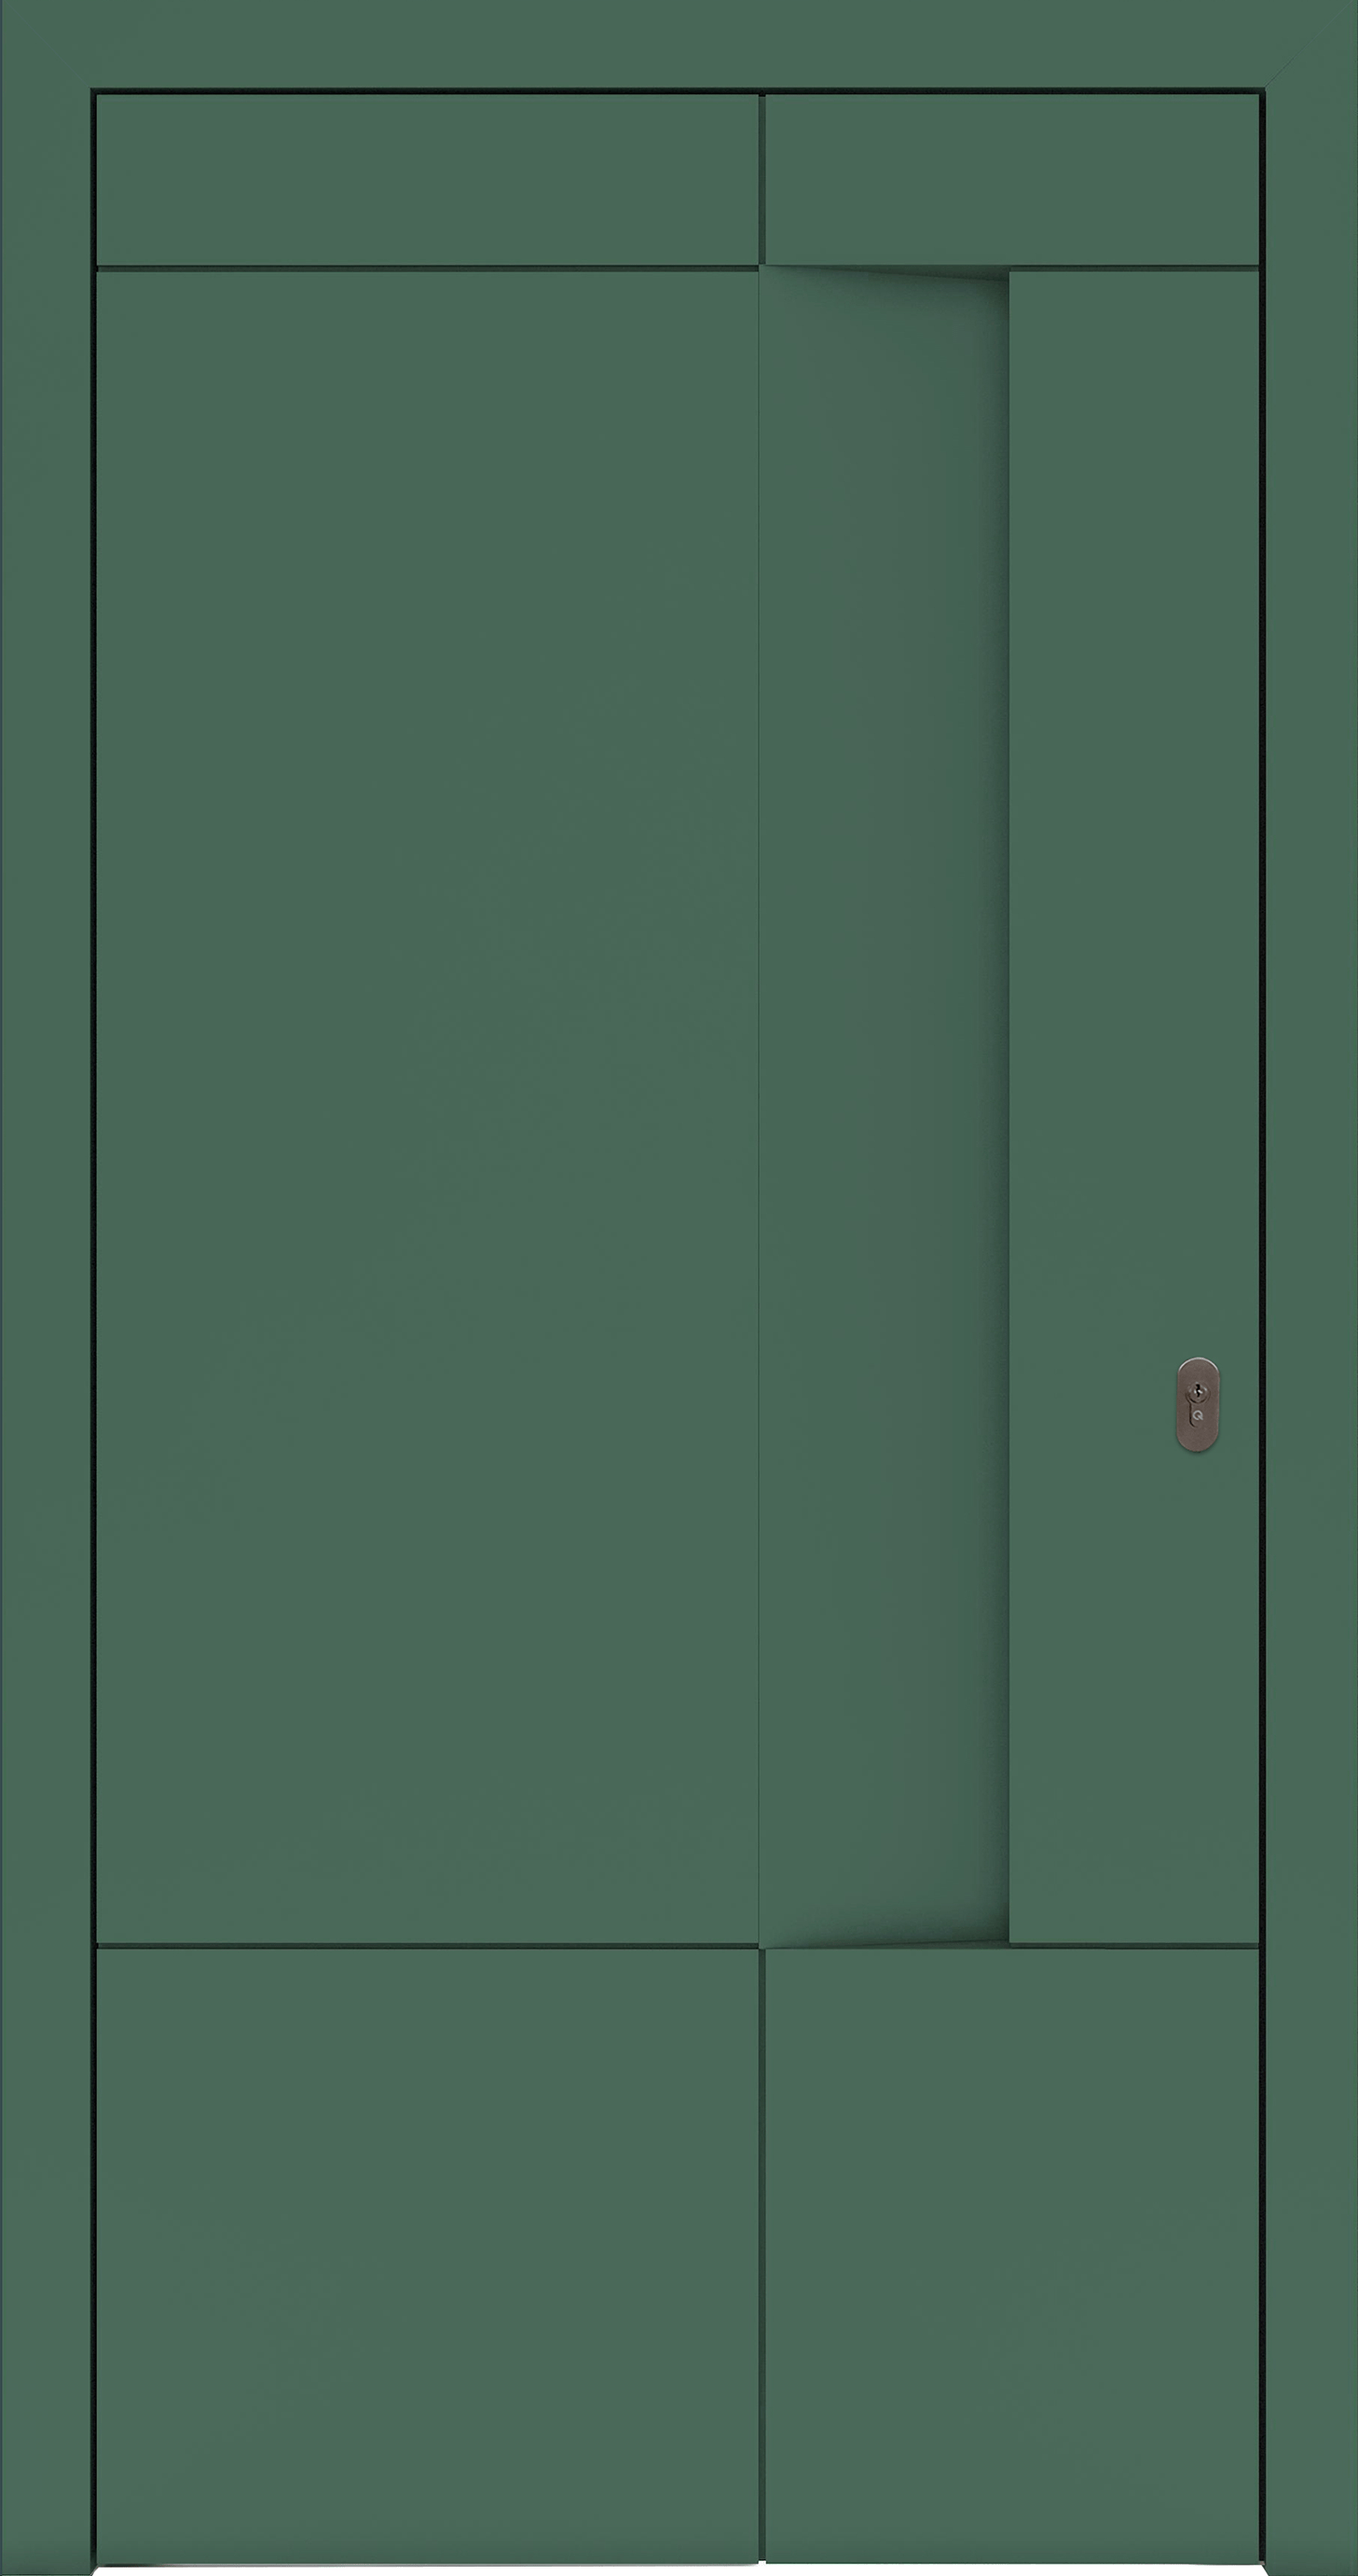
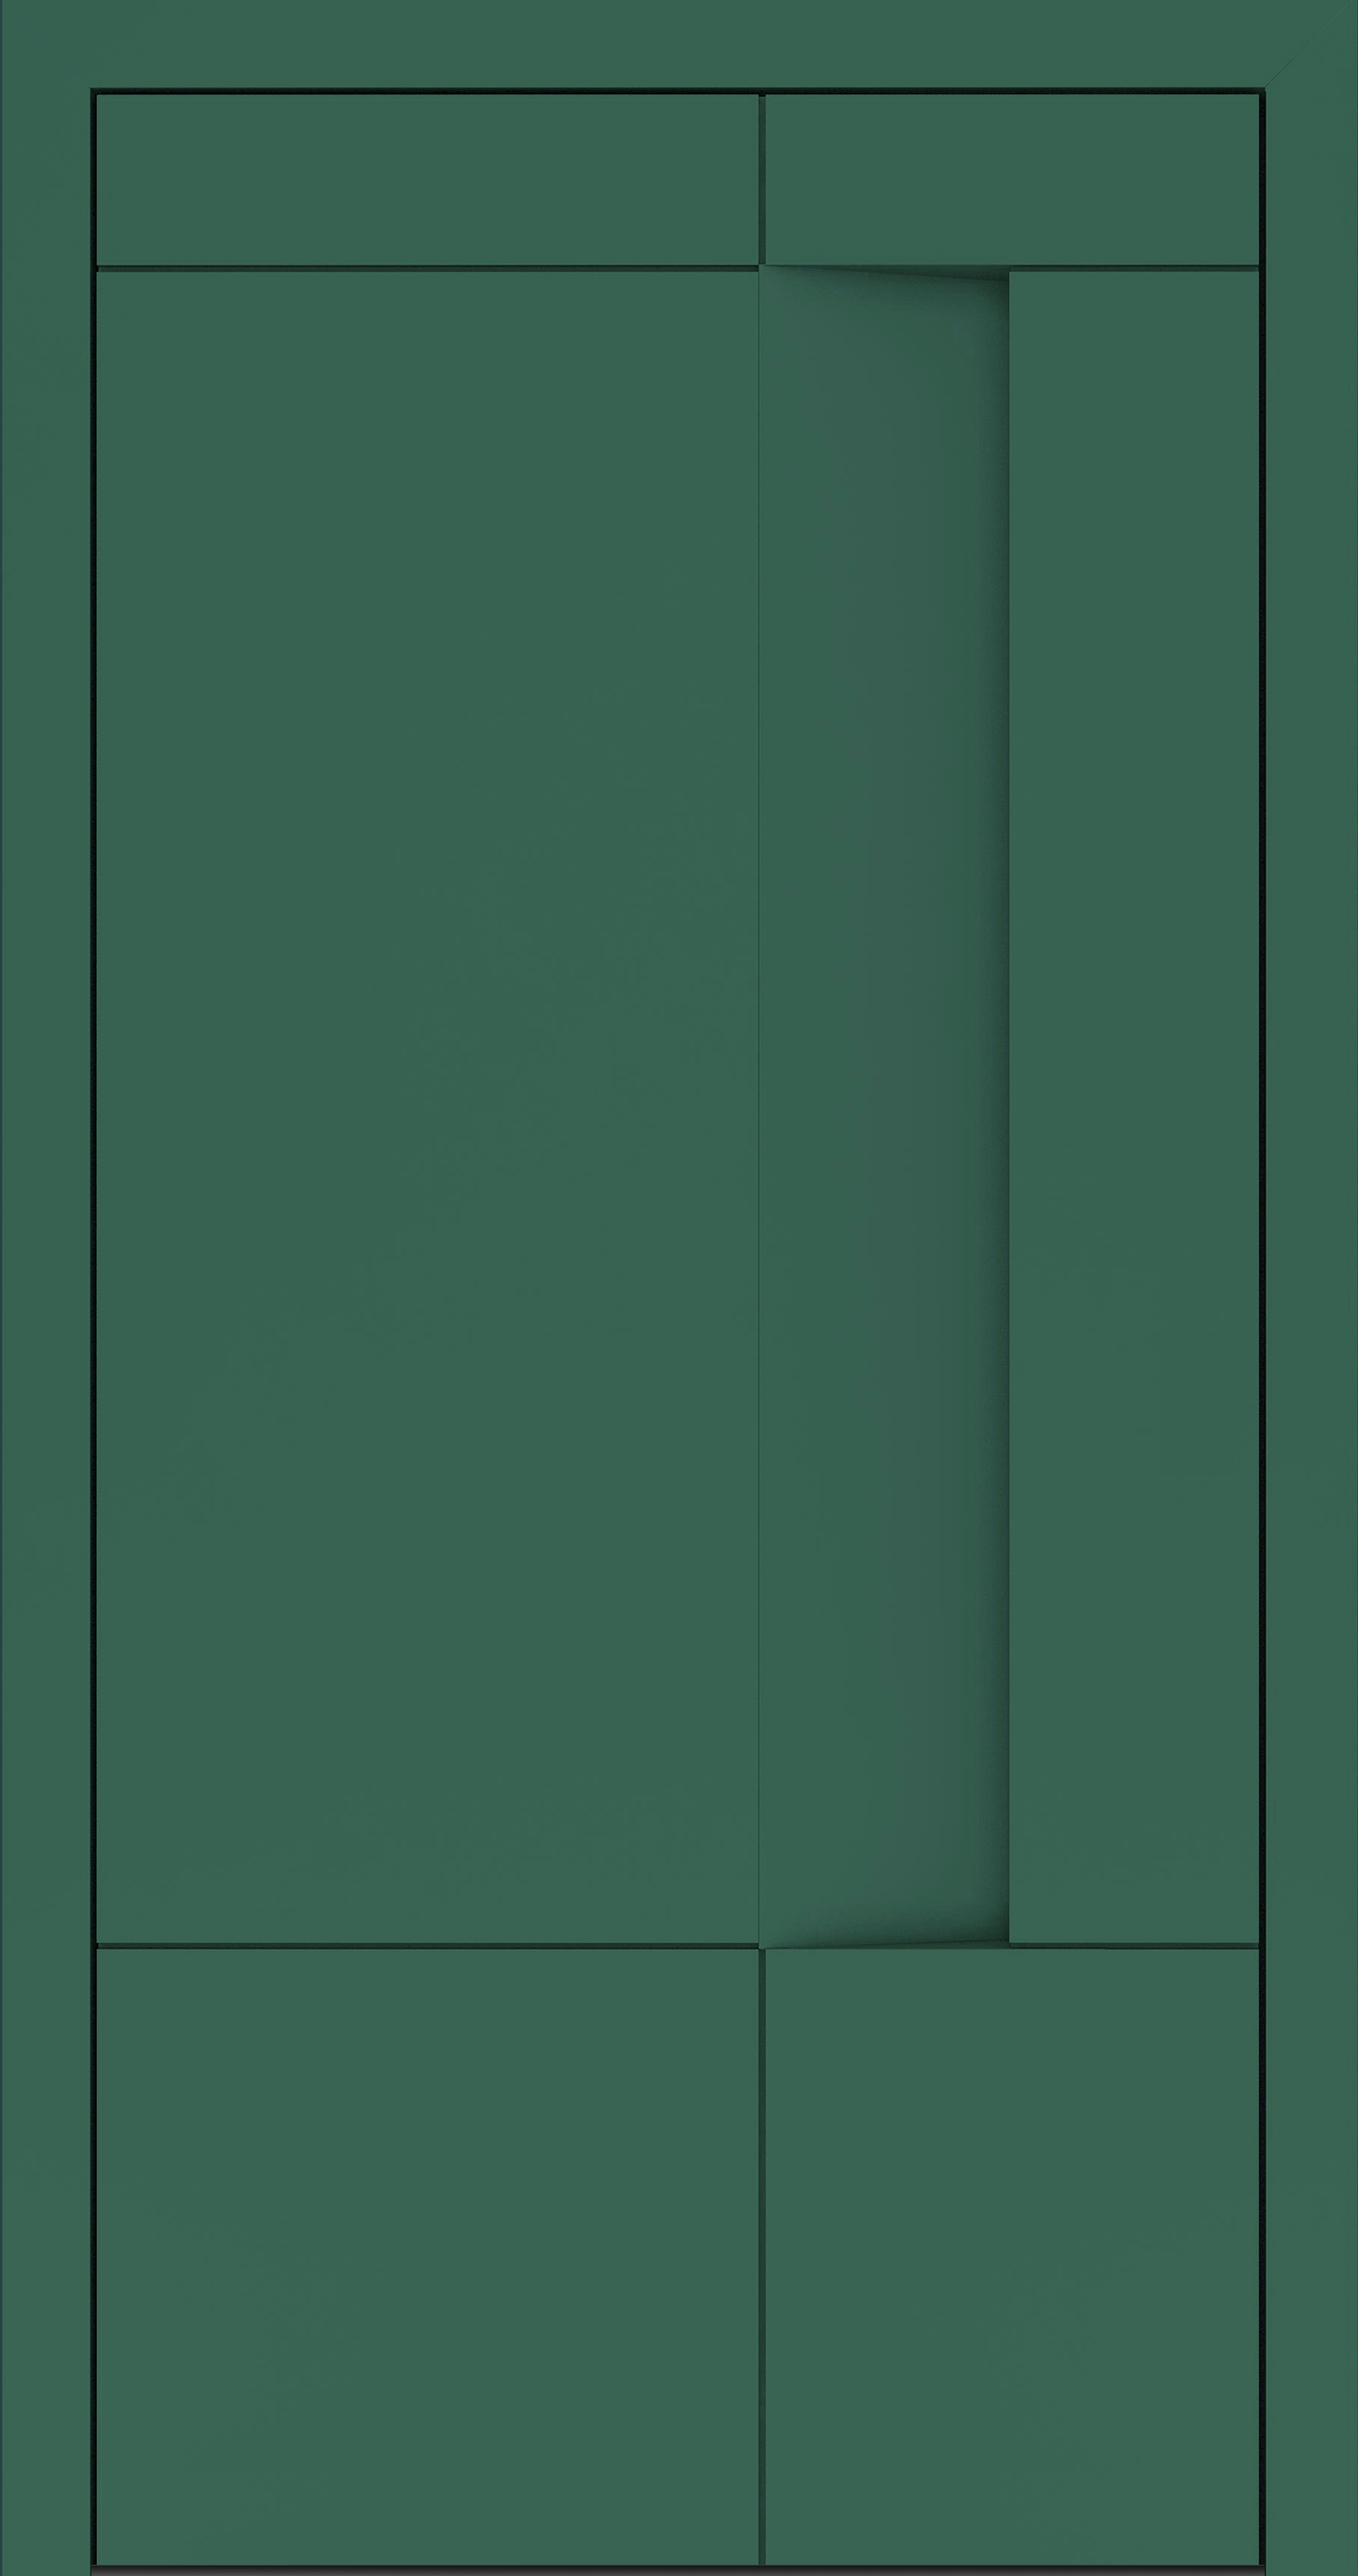
feat: Change idea model

Changed region(s): [[0.0, 0.996, 0.9574, 1.0], [0.8648, 0.5291, 0.8957, 0.5603]]

diff --git a/src/app/data/items/Idea.ts b/src/app/data/items/Idea.ts
@@ -31,6 +31,126 @@ export const Idea: Item = {
       ]
     },
     {
+      name: 'filling',
+      label: $localize`Filling`,
+      type: FieldType.GRID,
+      condition: {
+        items: [
+          {
+            field: 'handle',
+            value: 'shaped'
+          }
+        ]
+      },
+      selected: 0,
+      options: [
+        {
+          value: 'shaped-ral-base',
+          label: 'RAL-base'
+        },
+        {
+          value: 'shaped-ral-1026',
+          label: 'RAL-1026'
+        },
+        {
+          value: 'shaped-ral-3004',
+          label: 'RAL-3004'
+        },
+        {
+          value: 'shaped-ral-4010',
+          label: 'RAL-4010'
+        },
+        {
+          value: 'shaped-ral-5001',
+          label: 'RAL-5001'
+        },
+        {
+          value: 'shaped-ral-5005',
+          label: 'RAL-5005'
+        },
+        {
+          value: 'shaped-ral-5008',
+          label: 'RAL-5008'
+        },
+        {
+          value: 'shaped-ral-6021',
+          label: 'RAL-6021'
+        },
+        {
+          value: 'shaped-ral-6033',
+          label: 'RAL-6033'
+        },
+        {
+          value: 'shaped-ral-7000',
+          label: 'RAL-7000'
+        },
+        {
+          value: 'shaped-ral-7002',
+          label: 'RAL-7002'
+        },
+        {
+          value: 'shaped-ral-7016',
+          label: 'RAL-7016'
+        },
+        {
+          value: 'shaped-ral-7021',
+          label: 'RAL-7021'
+        },
+        {
+          value: 'shaped-ral-7023',
+          label: 'RAL-7023'
+        },
+        {
+          value: 'shaped-ral-7032',
+          label: 'RAL-7032'
+        },
+        {
+          value: 'shaped-ral-7045',
+          label: 'RAL-7045'
+        },
+        {
+          value: 'shaped-ral-9002',
+          label: 'RAL-9002'
+        },
+        {
+          value: 'shaped-ral-9005',
+          label: 'RAL-9005'
+        },
+        {
+          value: 'shaped-ral-9006',
+          label: 'RAL-9006'
+        },
+        {
+          value: 'shaped-ral-9010',
+          label: 'RAL-9010'
+        }
+      ]
+    },
+    {
+      name: 'filling',
+      label: $localize`Filling`,
+      type: FieldType.GRID,
+      condition: {
+        items: [
+          {
+            field: 'handle',
+            value: 'flushed'
+          }
+        ]
+      },
+      selected: 0,
+      options: [
+        {
+          value: 'flushed-ral-1026',
+          label: 'RAL-1026'
+        },
+        {
+          value: 'flushed-ral-4010',
+          label: 'RAL-4010'
+        }
+      ]
+    },
+    {
       name: 'handle-position',
       label: $localize`Handle position`,
       type: FieldType.LIST,
@@ -55,57 +175,37 @@ export const Idea: Item = {
       ]
     },
     {
-      name: 'handle-position',
-      label: $localize`Handle position`,
+      name: 'handle-color',
+      label: $localize`Handle color`,
       type: FieldType.LIST,
       condition: {
         items: [
           {
             field: 'handle',
-            value: 'mounted'
-          }
-        ]
-      },
-      selected: 0,
-      options: [
-        {
-          value: 'mounted-top',
-          label: $localize`Top`
-        },
-        {
-          value: 'mounted-bottom',
-          label: $localize`Bottom`
-        }
-      ]
-    },
-    {
-      name: 'filling',
-      label: $localize`Filling`,
-      type: FieldType.GRID,
-      condition: {
-        items: [
+            value: 'flushed'
+          },
           {
-            field: 'handle',
-            value: 'shaped'
+            field: 'handle-position',
+            value: 'flushed-top'
           }
         ]
       },
       selected: 0,
       options: [
         {
-          value: 'shaped-ral-6033',
-          label: 'RAL-6033'
+          value: 'flushed-top-black',
+          label: $localize`Black`
         },
         {
-          value: 'shaped-ral-6021',
-          label: 'RAL-6021'
+          value: 'flushed-top-silver',
+          label: $localize`Silver`
         }
       ]
     },
     {
-      name: 'filling',
-      label: $localize`Filling`,
-      type: FieldType.GRID,
+      name: 'handle-color',
+      label: $localize`Handle color`,
+      type: FieldType.LIST,
       condition: {
         items: [
           {
@@ -121,19 +221,19 @@ export const Idea: Item = {
       selected: 0,
       options: [
         {
-          value: 'flushed-bottom-ral-5001',
-          label: 'RAL-5001'
+          value: 'flushed-bottom-black',
+          label: $localize`Black`
         },
         {
-          value: 'flushed-bottom-ral-5005',
-          label: 'RAL-5005'
+          value: 'flushed-bottom-silver',
+          label: $localize`Silver`
         }
       ]
     },
     {
-      name: 'filling',
-      label: $localize`Filling`,
-      type: FieldType.GRID,
+      name: 'handle-color',
+      label: $localize`Handle color`,
+      type: FieldType.LIST,
       condition: {
         items: [
           {
@@ -145,36 +245,65 @@ export const Idea: Item = {
       selected: 0,
       options: [
         {
-          value: 'long-structural-varnish',
-          label: $localize`Structural varnish`
+          value: 'long-black',
+          label: $localize`Black`
         },
         {
-          value: 'long-ral-3004',
-          label: 'RAL-3004'
+          value: 'long-silver',
+          label: $localize`Silver`
+        }
+      ]
+    },
+    {
+      name: 'lock',
+      label: $localize`Lock`,
+      type: FieldType.GRID,
+      condition: {
+        items: [
+          {
+            field: 'handle',
+            value: 'shaped'
+          }
+        ]
+      },
+      selected: 0,
+      options: [
+        {
+          value: 'shaped-black',
+          label: $localize`Black`
         },
         {
-          value: 'long-ral-5001',
-          label: 'RAL-5001'
+          value: 'shaped-satin',
+          label: $localize`Satin`
         },
         {
-          value: 'long-ral-5005',
-          label: 'RAL-5005'
+          value: 'shaped-silver',
+          label: $localize`Silver`
+        }
+      ]
+    },
+    {
+      name: 'lock',
+      label: $localize`Lock`,
+      type: FieldType.GRID,
+      condition: {
+        items: [
+          {
+            field: 'handle',
+            value: 'shaped',
+            compare: '!='
+          }
+        ]
+      },
+      selected: 0,
+      options: [
+        {
+          value: 'black',
+          label: $localize`Black`
         },
         {
-          value: 'long-ral-6021',
-          label: 'RAL-6021'
-        },
-        {
-          value: 'long-ral-6033',
-          label: 'RAL-6033'
-        },
-        {
-          value: 'long-ral-7016',
-          label: 'RAL-7016'
-        },
-        {
-          value: 'long-ral-7045',
-          label: 'RAL-7045'
+          value: 'silver',
+          label: $localize`Silver`
         }
       ]
     }

diff --git a/src/app/components/customizer/customizer.component.ts b/src/app/components/customizer/customizer.component.ts
@@ -12,7 +12,7 @@ import { Condition } from '../../data/Condition.interface';
 })
 export class CustomizerComponent implements OnInit {
 
-  public loading: boolean = true;
+  public loading: boolean = false;
 
   public items: Item[] = [];
 
